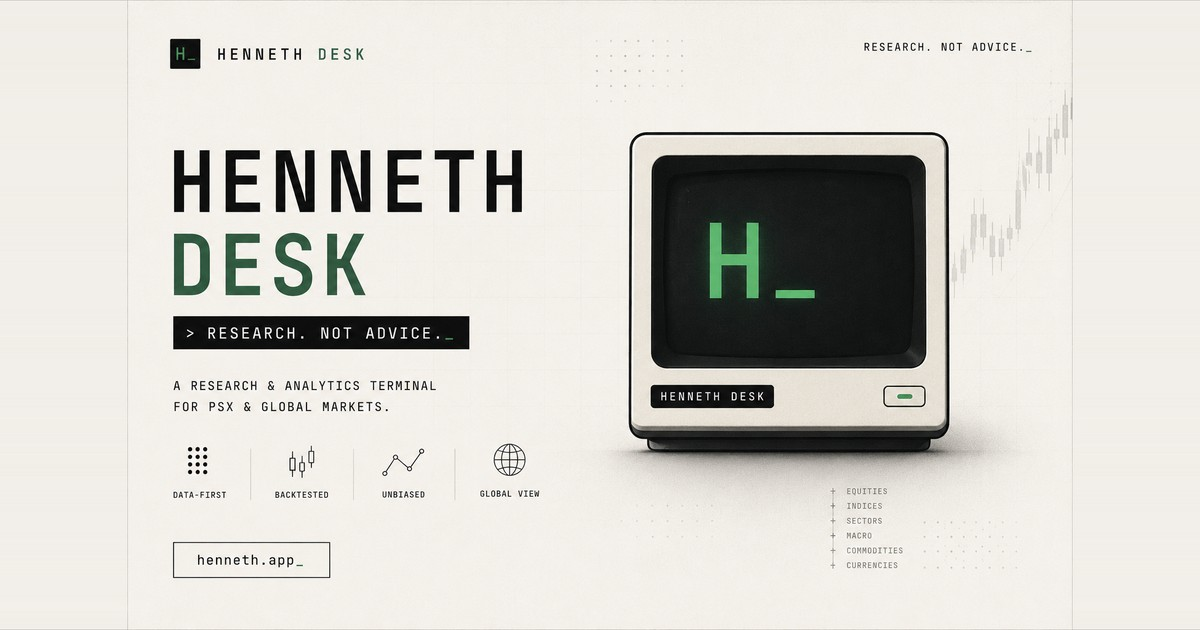
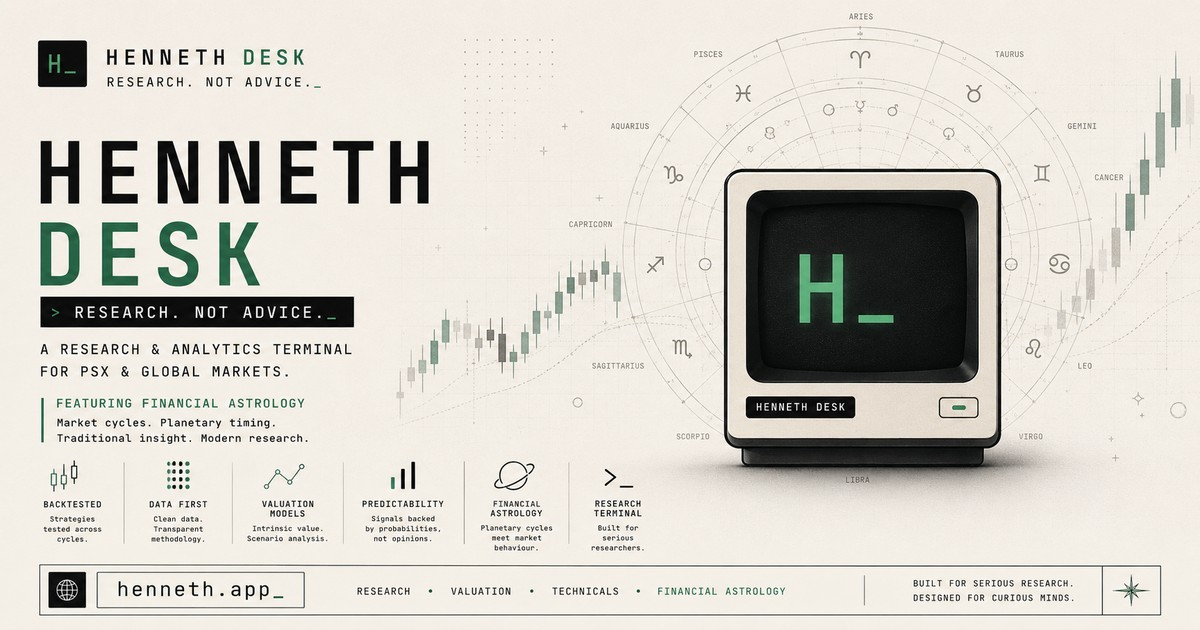
New astro OG card; surface financial astrology in titles and descriptions

diff --git a/dashboard/index.html b/dashboard/index.html
@@ -7,8 +7,8 @@
 <meta name="apple-mobile-web-app-capable" content="yes">
 <meta name="apple-mobile-web-app-status-bar-style" content="default">
 <meta name="apple-mobile-web-app-title" content="Henneth Desk">
-<title>Henneth Desk — PSX research terminal</title>
-<meta name="description" content="The Henneth research terminal for the Pakistan Stock Exchange — company reads, model fair value, tested strategies and the desk's public track record. Research, not advice.">
+<title>Henneth Desk — PSX research &amp; financial astrology</title>
+<meta name="description" content="The Henneth research terminal for the Pakistan Stock Exchange — company reads, model fair value, tested strategies, and a financial-astrology lens tested and scored like every other. Research, not advice.">
 
 <!-- NOINDEX IS DELIBERATE, and is the one line here most likely to be "fixed" by mistake.
      The desk is members-only and it is a hash-routed SPA, so a crawler sees exactly one thing at
@@ -25,8 +25,8 @@
      site, so a link to either property previews identically. -->
 <meta property="og:type" content="website">
 <meta property="og:site_name" content="Henneth Desk">
-<meta property="og:title" content="Henneth Desk — PSX research terminal">
-<meta property="og:description" content="The Henneth research terminal for the Pakistan Stock Exchange. Research, not advice.">
+<meta property="og:title" content="Henneth Desk — PSX research &amp; financial astrology">
+<meta property="og:description" content="The Henneth research terminal for the Pakistan Stock Exchange — company reads, fair value, tested strategies and financial astrology. Research, not advice.">
 <meta property="og:url" content="https://desk.henneth.app/">
 <meta property="og:image" content="https://desk.henneth.app/og.jpg">
 <meta property="og:image:width" content="1200">
@@ -36,8 +36,8 @@
 <meta property="og:locale" content="en_US">
 <meta name="twitter:card" content="summary_large_image">
 <meta name="twitter:site" content="@MWasayI">
-<meta name="twitter:title" content="Henneth Desk — PSX research terminal">
-<meta name="twitter:description" content="The Henneth research terminal for the Pakistan Stock Exchange. Research, not advice.">
+<meta name="twitter:title" content="Henneth Desk — PSX research &amp; financial astrology">
+<meta name="twitter:description" content="The Henneth research terminal for the Pakistan Stock Exchange — company reads, fair value, tested strategies and financial astrology. Research, not advice.">
 <meta name="twitter:image" content="https://desk.henneth.app/og.jpg">
 
 <!-- Icons: the WEBSITE logo on both properties, so the browser tab and home screen read as one

diff --git a/site/src/site.config.ts b/site/src/site.config.ts
@@ -7,11 +7,21 @@ export const site = {
   name: 'Henneth',
   // The in-app product name, used when referring to the terminal itself.
   appName: 'Henneth Desk',
-  // Short tagline used in the browser tab and OG cards.
-  tagline: 'PSX research, made clear.',
-  // One-line description used for meta + JSON-LD.
+  /* Short tagline used in the browser tab and OG cards. Kept under ~50 characters because
+     Base.astro renders "<name> — <tagline>" and search results truncate a title past ~60. */
+  tagline: 'PSX research and financial astrology, made clear.',
+  /* One-line description used for meta + JSON-LD.
+     Trimmed from 210 characters to fit the ~160 Google actually shows — the old one was being cut
+     mid-sentence, so the closing "Research, not advice" never appeared in a result.
+
+     ON THE ASTROLOGY WORDING: the lens is described as tested and scored, never as predictive.
+     state/astro_backtest.json records 2,589 hypotheses and zero survivors after correction, and
+     astro_map.json's own discipline says astro "NEVER generates or gates a trade setup". A meta
+     description implying it forecasts returns would contradict the desk's published null result
+     and CLAUDE.md Rule 5. "Tested and scored like any other" is the claim that is actually true —
+     and it is the differentiator, since nobody else tests theirs at all. */
   description:
-    'Henneth turns the Pakistan Stock Exchange into plain-English answers — is this company healthy, is the price reasonable, what changed this week. A transparent, rules-based research engine. Research, not advice.',
+    'Pakistan Stock Exchange, in plain English: company health, fair value, tested strategies, and a financial-astrology lens scored like any other. Research, not advice.',
   // Marketing-site canonical URL — the marketing site owns the root domain.
   url: 'https://henneth.app',
   // The terminal users enter after picking a plan. Moved off the root so marketing can own it.
